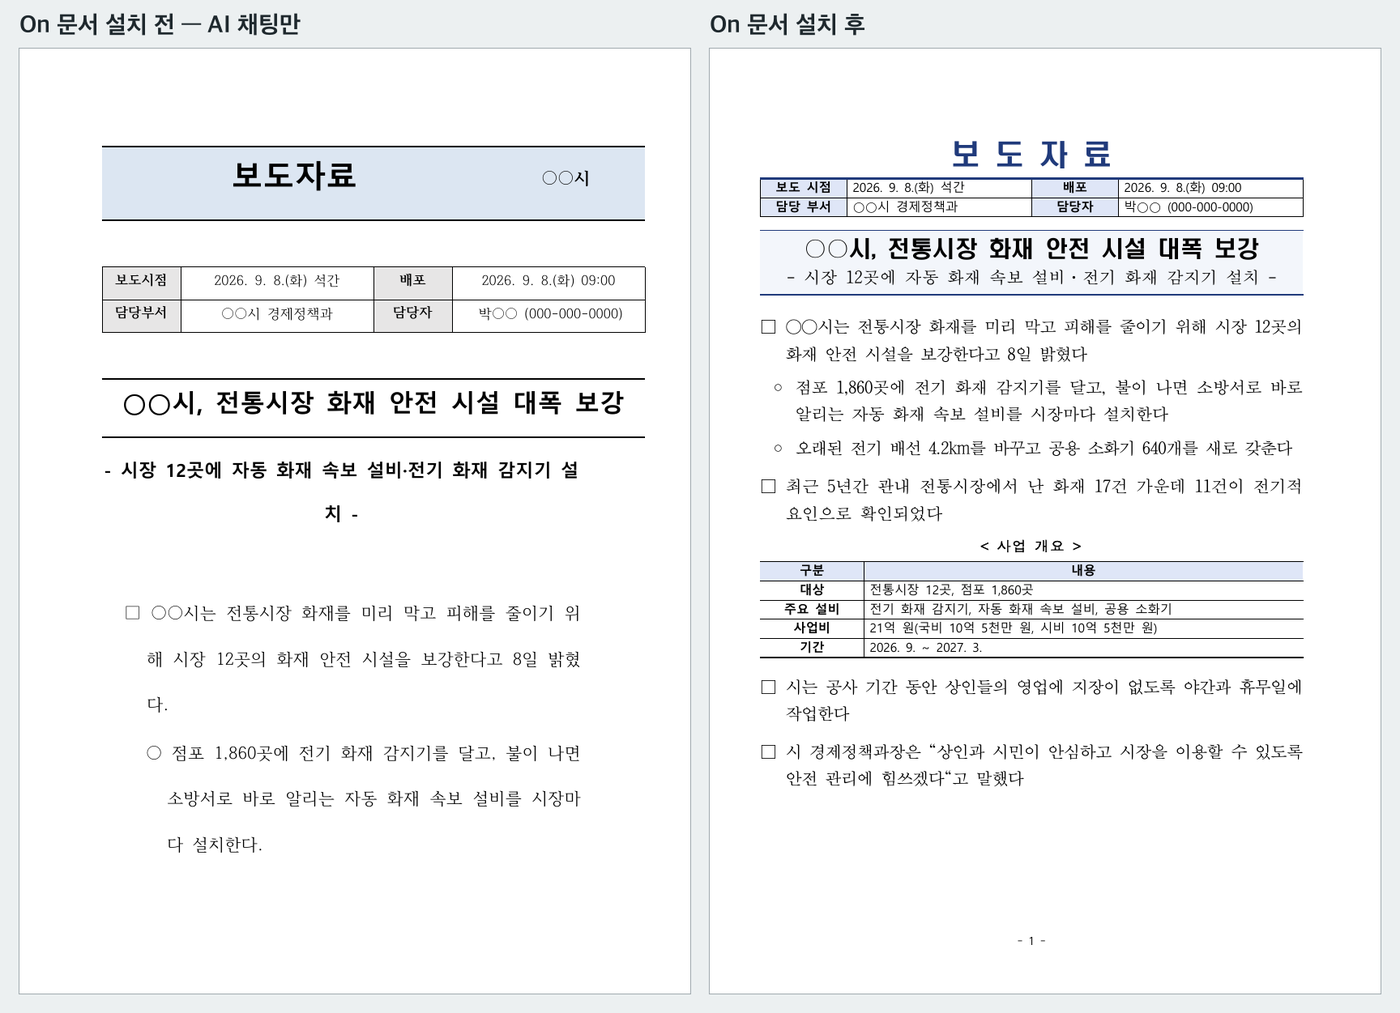
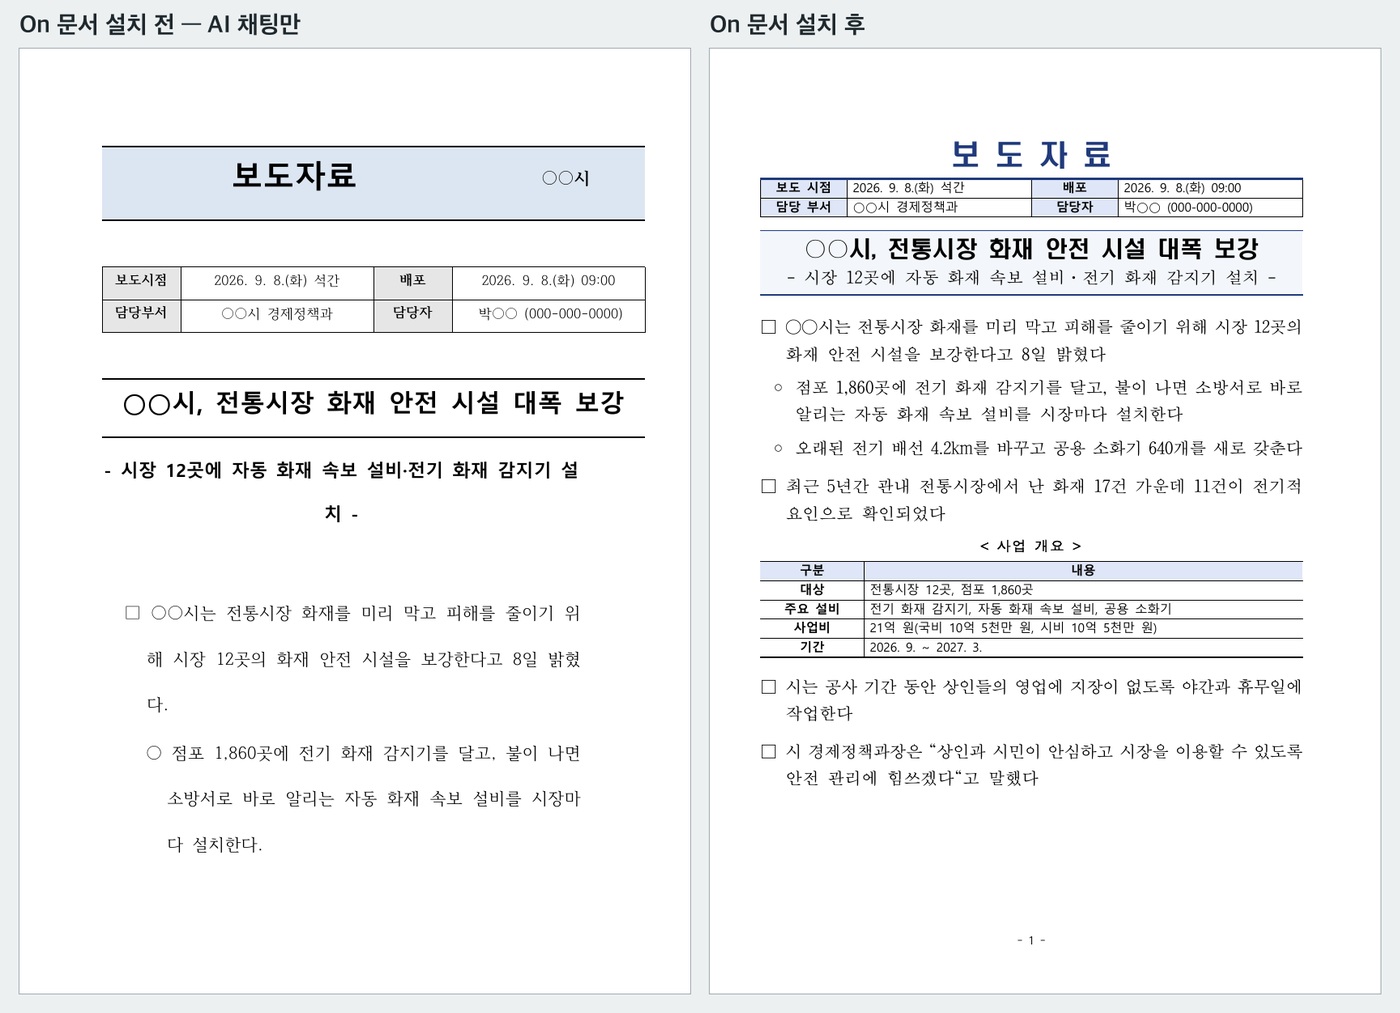
설치 전·후 다시 잼 — 지금 시범판(On 한글엔진 2.2.1)으로 설치 후 5편을 다시 만들어 한글 2024 로 엶: 설치 후 99.9→100점, 설치 전(같은 파일)은 57.1점 그대로
- README·Pages 표: 둘째 줄 32/32→28/28 · 끝 줄 1~2글자 1/32→0/28 · (참고) 짧은 끝 줄 20/32→15/28 · 쪽 수 2·2·4·3·1→1·2·4·3·1, 원고 보존 169/169·빈 쪽 3/5 대 0/5 는 그대로
- 「어떻게 쟀나」 ③: 설치 후는 2026-11-26 지금 시범판으로 다시 만들고, 설치 전은 2026-11-22 파일을 그대로(다시 만들면 같은 조건이 아님), 두 쪽 모두 같은 날 한글 2024 로 다시 엶 · 작은 표본(5편) 단서 그대로
- 측정 자료 4장에 「On 문서 설치 전·후 — 같은 원고 5편」 절(점수 나눔·줄 어긋남·쪽 수·11-22 후보 값), benchmark.html 은 md2html 로 다시 만듦
- 그림 두 장(install_before_after_2·blank)의 설치 후 쪽을 새 PDF 로(설치 전 쪽은 그대로)

diff --git a/docs/index.html b/docs/index.html
@@ -130,12 +130,12 @@ ul.plain li b{color:var(--ink)}
   <p><a class="btn" href="benchmark.html">자세한 측정 방법·신뢰구간</a></p>
   <figure style="margin-top:14px"><img src="img/sbs1.png" alt="왼쪽은 한컴 한글 2024 가 만든 PDF, 오른쪽은 같은 한글 파일을 On 문서가 그린 쪽 — 농촌진흥청 보도자료 붙임의 표" loading="lazy" width="1480" height="1118"><figcaption>출처: 농촌진흥청 보도자료 「'생리장해 줄이고 생산성 높이고' 인삼 예정지 토양 관리 중요」(2026. 4. 30.) 3쪽, <a href="https://www.korea.kr/briefing/pressReleaseView.do?newsId=156759536">정책브리핑</a>, 공공누리 제1유형. 왼쪽 한컴 PDF(만든 프로그램 한글 2024) · 오른쪽 On 문서. 「한컴과 같다」는 한컴 프로그램이 만든 PDF 와 견준 결과일 뿐, 인증이나 제휴가 아닙니다.</figcaption></figure>
   <h3 id="install-before-after" style="margin-top:28px">On 문서 설치 전·후, 무엇이 달라지나</h3>
-  <p>같은 원고 5편(가상의 ○○ 자료)으로 한글(HWPX) 공문서를 두 가지 방법으로 만들고, 한컴오피스 한글 2024 로 열어 PDF 로 저장한 결과를 같은 잣대로 쟀습니다. 설치 전은 AI 채팅만으로 AI 가 스스로 코드를 짜서 만든 파일, 설치 후는 On 문서(공문서 쓰기)로 만든 파일입니다. 같은 잣대를 30과제 채점 방식으로 점수로 매기면 <b>설치 전 57.1점, 설치 후 99.9점</b>입니다.</p>
-  <div class="tbl"><table><thead><tr><th style="text-align:left">한컴 한글 2024 로 연 결과</th><th>On 문서 설치 전 — AI 채팅만</th><th>On 문서 설치 후</th></tr></thead><tbody><tr><td>열린 문서</td><td>5/5</td><td>5/5</td></tr><tr><td>열렸지만 글이 하나도 보이지 않은 문서</td><td>3/5</td><td>0/5</td></tr><tr><td>원고 내용이 그대로 보인 요소(제목·문단·표 칸)</td><td>60/169 (35.5%)</td><td>169/169 (100%)</td></tr><tr><td>둘째 줄이 첫 줄 글자 자리에서 시작한 □·○·- 문단</td><td>0/17</td><td>32/32</td></tr><tr><td>쪽 끝에 제목만 남은 곳</td><td>0</td><td>0</td></tr><tr><td>끝 줄에 1~2글자만 넘어간 문단</td><td>1/17</td><td>1/32</td></tr><tr><td>(참고) 끝 줄이 줄 폭의 1/3 도 안 되는 문단</td><td>6/17</td><td>20/32</td></tr><tr><td>쪽 수(보고서·검토 보고·계획서·결과보고서·보도자료)</td><td>1·1·3·1·2 (1쪽 셋은 빈 쪽)</td><td>2·2·4·3·1</td></tr></tbody></table></div>
+  <p>같은 원고 5편(가상의 ○○ 자료)으로 한글(HWPX) 공문서를 두 가지 방법으로 만들고, 한컴오피스 한글 2024 로 열어 PDF 로 저장한 결과를 같은 잣대로 쟀습니다. 설치 전은 AI 채팅만으로 AI 가 스스로 코드를 짜서 만든 파일, 설치 후는 On 문서(공문서 쓰기)로 만든 파일입니다. 같은 잣대를 30과제 채점 방식으로 점수로 매기면 <b>설치 전 57.1점, 설치 후 100점</b>입니다.</p>
+  <div class="tbl"><table><thead><tr><th style="text-align:left">한컴 한글 2024 로 연 결과</th><th>On 문서 설치 전 — AI 채팅만</th><th>On 문서 설치 후</th></tr></thead><tbody><tr><td>열린 문서</td><td>5/5</td><td>5/5</td></tr><tr><td>열렸지만 글이 하나도 보이지 않은 문서</td><td>3/5</td><td>0/5</td></tr><tr><td>원고 내용이 그대로 보인 요소(제목·문단·표 칸)</td><td>60/169 (35.5%)</td><td>169/169 (100%)</td></tr><tr><td>둘째 줄이 첫 줄 글자 자리에서 시작한 □·○·- 문단</td><td>0/17</td><td>28/28</td></tr><tr><td>쪽 끝에 제목만 남은 곳</td><td>0</td><td>0</td></tr><tr><td>끝 줄에 1~2글자만 넘어간 문단</td><td>1/17</td><td>0/28</td></tr><tr><td>(참고) 끝 줄이 줄 폭의 1/3 도 안 되는 문단</td><td>6/17</td><td>15/28</td></tr><tr><td>쪽 수(보고서·검토 보고·계획서·결과보고서·보도자료)</td><td>1·1·3·1·2 (1쪽 셋은 빈 쪽)</td><td>1·2·4·3·1</td></tr></tbody></table></div>
   <p class="small">설치 전의 문단 숫자는 글이 보인 2편만 센 값입니다. 끝 줄이 짧은 문단은 설치 후가 더 많습니다.</p>
   <figure style="margin-top:14px"><img src="img/install_before_after_2.png" alt="같은 보도자료 원고를 한컴 한글 2024 로 연 첫 쪽 — 왼쪽 On 문서 설치 전(AI 채팅만)은 둘째 줄이 기호 아래에서 시작하고 줄 간격이 넓음, 오른쪽 On 문서 설치 후는 둘째 줄이 첫 줄 글자 자리에 맞음" loading="lazy" width="1400" height="1013"></figure>
   <figure style="margin-top:14px"><img src="img/install_before_after_blank.png" alt="같은 검토 보고 원고를 한컴 한글 2024 로 연 첫 쪽 — 왼쪽 On 문서 설치 전(AI 채팅만) 파일은 빈 쪽, 오른쪽 On 문서 설치 후 파일은 제목·□○ 문단·표가 보임" loading="lazy" width="1400" height="1013"></figure>
-  <p class="small">어떻게 쟀나 — 여기서 「설치」는 AI 채팅에 On 문서 MCP 를 연결한 것입니다. ① 두 쪽 모두 같은 원고와 같은 요청 「이 자료로 공문서 꼴 한글(HWPX) 보고서를 만들어 줘」(보고서 자리는 과제 종류)로 만들었습니다. 설치 전은 MCP·플러그인 없이 빈 폴더에서 범용 AI 코딩 도구가 과제마다 한 번 만든 그대로이고(고르거나 다시 시키지 않음), 설치 후는 같은 원고에서 AI 가 뽑아 고정해 둔 짜임으로 On 문서 공문서 쓰기를 부른 결과입니다. ② 두 쪽 파일을 한컴오피스 한글 2024(9.1.1)로 열어 PDF 로 저장하고 그 PDF 를 쟀습니다. 「글이 보이지 않음」은 한컴에서 연 문서의 본문 글자가 0자라는 뜻입니다. ③ 2026-11-22 측정, On 문서 시범판 후보(On 한글엔진 2.1.9). 5편은 작은 표본이고, AI 와 때에 따라 설치 전 결과는 달라질 수 있습니다. 사람이 한컴에서 열어 보고 다시 시키면 나아질 수 있습니다.</p>
+  <p class="small">어떻게 쟀나 — 여기서 「설치」는 AI 채팅에 On 문서 MCP 를 연결한 것입니다. ① 두 쪽 모두 같은 원고와 같은 요청 「이 자료로 공문서 꼴 한글(HWPX) 보고서를 만들어 줘」(보고서 자리는 과제 종류)로 만들었습니다. 설치 전은 MCP·플러그인 없이 빈 폴더에서 범용 AI 코딩 도구가 과제마다 한 번 만든 그대로이고(고르거나 다시 시키지 않음), 설치 후는 같은 원고에서 AI 가 뽑아 고정해 둔 짜임으로 On 문서 공문서 쓰기를 부른 결과입니다. ② 두 쪽 파일을 한컴오피스 한글 2024(9.1.1)로 열어 PDF 로 저장하고 그 PDF 를 쟀습니다. 「글이 보이지 않음」은 한컴에서 연 문서의 본문 글자가 0자라는 뜻입니다. ③ 설치 후 파일은 2026-11-26 에 지금 시범판에 들어간 판(On 한글엔진 2.2.1)으로 다시 만들었고, 설치 전 파일은 2026-11-22 에 만든 것을 그대로 썼습니다(다시 만들면 AI 답이 달라져 같은 조건이 되지 않음). 두 쪽 파일 모두 2026-11-26 에 한글 2024 로 다시 열어 쟀습니다. 자세한 값은 <a href="benchmark.html#on-문서-설치-전후--같은-원고-5편">측정 자료</a>에 있습니다. 5편은 작은 표본이고, AI 와 때에 따라 설치 전 결과는 달라질 수 있습니다. 사람이 한컴에서 열어 보고 다시 시키면 나아질 수 있습니다.</p>
 </div></section>
 
 <section id="demo" class="demo"><div class="wrap">

diff --git a/docs/benchmark.html b/docs/benchmark.html
@@ -258,6 +258,35 @@ ul.plain li b{color:var(--ink)}
 <li><b>내용 보존 40점:</b> 과제 원고의 요소(제목·□·○·-·표 칸)마다 한컴 PDF 글에 그대로 있는 비율의 평균 × 40.</li>
 <li>2026-11-19(엔진 2.1.6)에는 100점 29개·99.7점 1개, 줄 어긋남 1/931줄, 둘째 줄 205/205 였습니다. 과제는 같고, 공문서 쓰기 판이 바뀌면서 줄 수와 두 줄로 넘어가는 문단 수가 달라졌습니다.</li>
 </ul>
+<h3 id="on-문서-설치-전후--같은-원고-5편">On 문서 설치 전·후 — 같은 원고 5편</h3>
+<p>README 의 「On 문서 설치 전·후」 표의 자세한 값입니다. 위 30과제 가운데 5개의 원고로 한글(HWPX) 공문서를 두 가지 방법으로 만들고, 한컴오피스 한글 2024 로 열어 저장한 PDF 를 위와 같은 점수 정의로 쟀습니다. 여기서 「설치」는 AI 채팅에 On 문서 MCP 를 연결한 것입니다.</p>
+<div class="tbl"><table><thead><tr><th>항목</th><th>값</th></tr></thead><tbody>
+<tr><td>과제</td><td>30과제 가운데 보고서(현황 보고)·보고서(검토 보고)·계획서·결과보고서·보도자료 1개씩. 기관·사람·숫자는 모두 지어낸 것</td></tr>
+<tr><td>설치 전 — AI 채팅만</td><td>MCP·플러그인 없이 빈 폴더에서 범용 AI 코딩 도구에 「이 자료로 공문서 꼴 한글(HWPX) 보고서를 만들어 줘」(보고서 자리는 과제 종류)라고 한 번씩 시켜 만든 그대로(2026-11-22, 고르거나 다시 시키지 않음). 다시 만들면 AI 답이 달라져 같은 조건이 되지 않으므로 이 파일을 그대로 씁니다</td></tr>
+<tr><td>설치 후</td><td>같은 원고에서 뽑아 고정해 둔 짜임으로 공문서 쓰기를 부른 결과 — 지금 시범판에 들어간 판(On 한글엔진 2.2.1)으로 2026-11-26 에 다시 만듦</td></tr>
+<tr><td>기준·날짜</td><td>한컴오피스 한글 2024(판 9.1.1, 빌드 5656) · 윈도우 PC(인텔 i7-14700) · 2026-11-26 에 두 쪽 파일을 모두 다시 열어 PDF 로 저장</td></tr>
+</tbody></table></div>
+<div class="tbl"><table><thead><tr><th>지표</th><th>설치 전 — AI 채팅만</th><th>설치 후</th></tr></thead><tbody>
+<tr><td>점수(평균, 100점)</td><td>57.1</td><td>100</td></tr>
+<tr><td>└ 줄·쪽 밀림(20)</td><td>7.1</td><td>20</td></tr>
+<tr><td>└ 공문서 꼴(40)</td><td>34</td><td>40</td></tr>
+<tr><td>└ 내용 보존(40)</td><td>16</td><td>40</td></tr>
+<tr><td>한컴에서 열림</td><td>5/5</td><td>5/5</td></tr>
+<tr><td>열렸지만 글이 하나도 보이지 않은 문서(한컴이 읽은 본문 글자 0자)</td><td>3/5</td><td>0/5</td></tr>
+<tr><td>원고 요소(제목·문단·표 칸)가 그대로 보임</td><td>60/169 (35.5%)</td><td>169/169 (100%)</td></tr>
+<tr><td>우리 엔진이 그린 쪽 수와 한컴 쪽 수가 다른 문서</td><td>4/5</td><td>0/5</td></tr>
+<tr><td>줄 어긋남(한컴 줄과 우리 엔진 줄)</td><td>94/157줄</td><td>0/150줄</td></tr>
+<tr><td>둘째 줄 시작 맞춤(□·○·- 문단)</td><td>0/17</td><td>28/28</td></tr>
+<tr><td>쪽 끝에 제목만 남은 쪽</td><td>0</td><td>0</td></tr>
+<tr><td>끝 줄에 1~2글자만 남은 문단</td><td>1/17</td><td>0/28</td></tr>
+<tr><td>(참고) 짧은 끝 줄 — 3글자를 넘지만 줄 폭의 1/3 이 안 되는 문단</td><td>6/17</td><td>15/28</td></tr>
+<tr><td>쪽 수(현황 보고·검토 보고·계획서·결과보고서·보도자료)</td><td>1·1·3·1·2(1쪽 셋은 빈 쪽)</td><td>1·2·4·3·1</td></tr>
+</tbody></table></div>
+<ul class="plain">
+<li>설치 전의 문단 숫자는 글이 보인 2편만 센 값입니다(글이 보이지 않은 3편은 셀 문단이 없음). 짧은 끝 줄은 설치 후가 더 많습니다.</li>
+<li>2026-11-22 에 시범판 후보(On 한글엔진 2.1.9)로 잰 설치 후 값은 99.9점 · 줄 어긋남 1/153줄 · 둘째 줄 32/32 · 끝 줄 1~2글자 1/32 · 짧은 끝 줄 20/32 · 쪽 수 2·2·4·3·1 이었습니다. 설치 전 파일은 그때와 같은 파일이고, 2026-11-26 에 다시 연 결과도 그때와 같은 값입니다.</li>
+<li>5편은 작은 표본입니다. AI 와 때에 따라 설치 전 결과는 달라질 수 있고, 사람이 한컴에서 열어 보고 다시 시키면 나아질 수 있습니다.</li>
+</ul>
 <h2 id="5-글-꺼내기파싱--ai검색에-넣을-글과-표">5. 글 꺼내기(파싱) — AI·검색에 넣을 글과 표</h2>
 <p>그리기(쪽·줄 자리)와 따로, 문서에서 글과 표를 꺼내는 정확도입니다. AI 채팅·검색·요약에 넣을 글이 빠지지 않는지를 봅니다.</p>
 <h3 id="51-형식별-요약">5.1 형식별 요약</h3>

diff --git a/docs/benchmark.md b/docs/benchmark.md
@@ -197,6 +197,38 @@ On 문서의 공문서 쓰기로 만든 한글 파일을 한컴오피스 한글 
 - **내용 보존 40점:** 과제 원고의 요소(제목·□·○·-·표 칸)마다 한컴 PDF 글에 그대로 있는 비율의 평균 × 40.
 - 2026-11-19(엔진 2.1.6)에는 100점 29개·99.7점 1개, 줄 어긋남 1/931줄, 둘째 줄 205/205 였습니다. 과제는 같고, 공문서 쓰기 판이 바뀌면서 줄 수와 두 줄로 넘어가는 문단 수가 달라졌습니다.
 
+### On 문서 설치 전·후 — 같은 원고 5편
+
+README 의 「On 문서 설치 전·후」 표의 자세한 값입니다. 위 30과제 가운데 5개의 원고로 한글(HWPX) 공문서를 두 가지 방법으로 만들고, 한컴오피스 한글 2024 로 열어 저장한 PDF 를 위와 같은 점수 정의로 쟀습니다. 여기서 「설치」는 AI 채팅에 On 문서 MCP 를 연결한 것입니다.
+
+| 항목 | 값 |
+|---|---|
+| 과제 | 30과제 가운데 보고서(현황 보고)·보고서(검토 보고)·계획서·결과보고서·보도자료 1개씩. 기관·사람·숫자는 모두 지어낸 것 |
+| 설치 전 — AI 채팅만 | MCP·플러그인 없이 빈 폴더에서 범용 AI 코딩 도구에 「이 자료로 공문서 꼴 한글(HWPX) 보고서를 만들어 줘」(보고서 자리는 과제 종류)라고 한 번씩 시켜 만든 그대로(2026-11-22, 고르거나 다시 시키지 않음). 다시 만들면 AI 답이 달라져 같은 조건이 되지 않으므로 이 파일을 그대로 씁니다 |
+| 설치 후 | 같은 원고에서 뽑아 고정해 둔 짜임으로 공문서 쓰기를 부른 결과 — 지금 시범판에 들어간 판(On 한글엔진 2.2.1)으로 2026-11-26 에 다시 만듦 |
+| 기준·날짜 | 한컴오피스 한글 2024(판 9.1.1, 빌드 5656) · 윈도우 PC(인텔 i7-14700) · 2026-11-26 에 두 쪽 파일을 모두 다시 열어 PDF 로 저장 |
+
+| 지표 | 설치 전 — AI 채팅만 | 설치 후 |
+|---|---|---|
+| 점수(평균, 100점) | 57.1 | 100 |
+| └ 줄·쪽 밀림(20) | 7.1 | 20 |
+| └ 공문서 꼴(40) | 34 | 40 |
+| └ 내용 보존(40) | 16 | 40 |
+| 한컴에서 열림 | 5/5 | 5/5 |
+| 열렸지만 글이 하나도 보이지 않은 문서(한컴이 읽은 본문 글자 0자) | 3/5 | 0/5 |
+| 원고 요소(제목·문단·표 칸)가 그대로 보임 | 60/169 (35.5%) | 169/169 (100%) |
+| 우리 엔진이 그린 쪽 수와 한컴 쪽 수가 다른 문서 | 4/5 | 0/5 |
+| 줄 어긋남(한컴 줄과 우리 엔진 줄) | 94/157줄 | 0/150줄 |
+| 둘째 줄 시작 맞춤(□·○·- 문단) | 0/17 | 28/28 |
+| 쪽 끝에 제목만 남은 쪽 | 0 | 0 |
+| 끝 줄에 1~2글자만 남은 문단 | 1/17 | 0/28 |
+| (참고) 짧은 끝 줄 — 3글자를 넘지만 줄 폭의 1/3 이 안 되는 문단 | 6/17 | 15/28 |
+| 쪽 수(현황 보고·검토 보고·계획서·결과보고서·보도자료) | 1·1·3·1·2(1쪽 셋은 빈 쪽) | 1·2·4·3·1 |
+
+- 설치 전의 문단 숫자는 글이 보인 2편만 센 값입니다(글이 보이지 않은 3편은 셀 문단이 없음). 짧은 끝 줄은 설치 후가 더 많습니다.
+- 2026-11-22 에 시범판 후보(On 한글엔진 2.1.9)로 잰 설치 후 값은 99.9점 · 줄 어긋남 1/153줄 · 둘째 줄 32/32 · 끝 줄 1~2글자 1/32 · 짧은 끝 줄 20/32 · 쪽 수 2·2·4·3·1 이었습니다. 설치 전 파일은 그때와 같은 파일이고, 2026-11-26 에 다시 연 결과도 그때와 같은 값입니다.
+- 5편은 작은 표본입니다. AI 와 때에 따라 설치 전 결과는 달라질 수 있고, 사람이 한컴에서 열어 보고 다시 시키면 나아질 수 있습니다.
+
 ## 5. 글 꺼내기(파싱) — AI·검색에 넣을 글과 표
 
 그리기(쪽·줄 자리)와 따로, 문서에서 글과 표를 꺼내는 정확도입니다. AI 채팅·검색·요약에 넣을 글이 빠지지 않는지를 봅니다.
